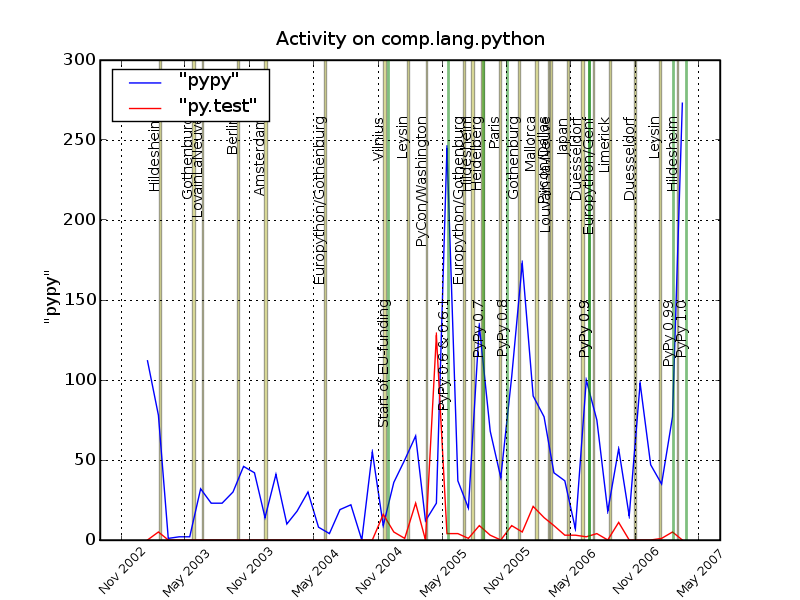
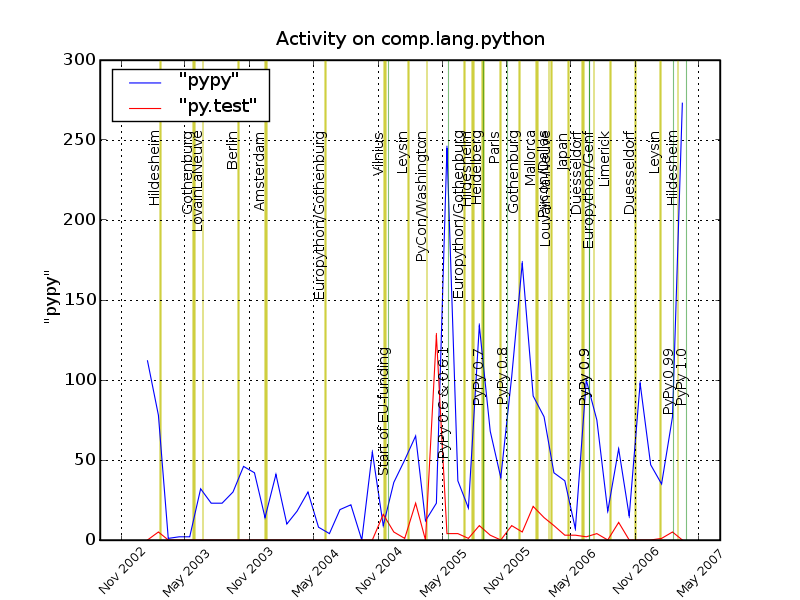
try to improve the plots (with limited success)
git-svn-id: http://codespeak.net/svn/pypy/dist@41713 fd0d7bf2-dfb6-0310-8d31-b7ecfe96aada

Changed region(s): [[0.1875, 0.09, 0.875, 0.9], [0.375, 0.18, 0.4062, 0.51]]

diff --git a/pypy/doc/statistic/format.py b/pypy/doc/statistic/format.py
@@ -60,7 +60,7 @@ def csv2png(p):
     ax = pylab.subplot(111)
     for i, d in enumerate(data[1:]):
         args = [dates, d, colors[i]]
-        pylab.plot_date(*args)
+        pylab.plot_date(linewidth=0.8, *args)
 
     ymax = max(pylab.yticks()[0]) #just below the legend
     for i, release_date in enumerate(release_dates):
@@ -69,13 +69,12 @@ def csv2png(p):
             color = 0.3
         else:
             color = "g"
-        pylab.axvline(release_date, linewidth=2, color=color, alpha=0.5)
-        ax.text(release_date, ymax * 0.5, release_name,
+        pylab.axvline(release_date, linewidth=0.8, color=color, alpha=0.5)
+        ax.text(release_date, ymax * 0.4, release_name,
                 fontsize=10,
                 horizontalalignment='right',
                 verticalalignment='top',
                 rotation='vertical')
-
     for i, location in enumerate(sprint_locations):
         begin = sprint_begin_dates[i]
         end   = sprint_end_dates[i]
@@ -84,13 +83,12 @@ def csv2png(p):
                 color = 0.8
             else:
                 color = "y"
-            pylab.axvspan(begin, end, facecolor=color, alpha=0.2)
-            ax.text(begin, ymax * 0.88, location,
+            pylab.axvspan(begin, end, linewidth=0, facecolor=color, alpha=0.5)
+            ax.text(begin, ymax * 0.85, location,
                     fontsize=10,
                     horizontalalignment='right',
                     verticalalignment='top',
                     rotation='vertical')
-
     pylab.legend(axis[1:], "upper left")
     pylab.xlabel(axis[0])
     pylab.ylabel(axis[1])
